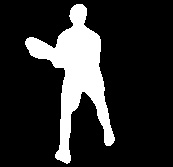
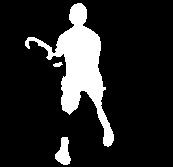
change strategy of rembg

diff --git a/processor/ImageProcessor.py b/processor/ImageProcessor.py
@@ -1,10 +1,9 @@
-from rembg import remove, new_session
 from skimage.restoration import estimate_sigma
 import cv2
-import PIL
 import numpy as np
 from ..video.Video import Video
 import os
+
 
 def estimate_noise(img):
     """
@@ -25,27 +24,47 @@ class ImageProcessor:
     def __init__(self):
         pass
 
-    def remove_background(self, input_img, threshold = 0.3, mode_img = "RGB"):
+    def remove_background(self, input_img):
         """
         Parameters
         ----------
         input_img : np.ndarray 3-dim
             Input image
-        threshold : float, optional
-            Threshold to determine which model to use, by default 0.3
 
         Returns
         -------
         np.ndarray 3-dim
             Image with background removed
         """
-        model_name = "u2net_human_seg" if (estimate_noise(input_img) < threshold) else "u2netp"
-        session = new_session(model_name=model_name)
-        output = remove(input_img, session=session, post_process_mask=True)
-        img_output = PIL.Image.fromarray(output)
-        img_output = img_output.convert(mode_img)
-        return np.array(img_output)
-    
+        # Blur to image to reduce noise
+        input_img = cv2.GaussianBlur(input_img, (5, 5), 0)
+
+        # We bin the pixels. Result will be a value 1..5
+        bins = np.array([0, 51, 102, 153, 204, 255])
+        input_img[:, :, :] = np.digitize(input_img[:, :, :], bins, right=True) * 51
+
+        # Create single channel greyscale for thresholding
+        input_img_grey = cv2.cvtColor(input_img, cv2.COLOR_BGR2GRAY)
+
+        # Perform Otsu thresholding and extract the background.
+        # We use Binary Threshold as we want to create an all white background
+        ret, background = cv2.threshold(input_img_grey, 0, 255, cv2.THRESH_BINARY + cv2.THRESH_OTSU)
+
+        # Convert black and white back into 3 channel greyscale
+        background = cv2.cvtColor(background, cv2.COLOR_GRAY2BGR)
+
+        # Perform Otsu thresholding and extract the foreground.
+        # We use TOZERO_INV as we want to keep some details of the foregorund
+        ret, foreground = cv2.threshold(input_img_grey, 0, 255,
+                                        cv2.THRESH_TOZERO_INV + cv2.THRESH_OTSU)  # Currently foreground is only a mask
+        foreground = cv2.bitwise_and(input_img, input_img,
+                                     mask=foreground)  # Update foreground with bitwise_and to extract real foreground
+
+        # Combine the background and foreground to obtain our final image
+        finalimage = background + foreground
+
+        return finalimage
+
     def crop_image(self, img, start_x: int, end_x: int, start_y: int, end_y: int):
         """
         Parameters
@@ -60,14 +79,14 @@ class ImageProcessor:
             Starting y coordinate
         end_y : int
             Ending y coordinate
-        
+
         Returns
         -------
         Image : np.ndarray 3-dim
             Cropped image
         """
         return img[start_y:end_y, start_x:end_x]
-    
+
     def save_img(self, img, path: str):
         """
         Parameters
@@ -79,15 +98,14 @@ class ImageProcessor:
         """
         cv2.imwrite(path, img)
         return
-    
+
     def crop_shadow_player_save(self, video: Video, nb_start: int, nb_end: int,
                                 start_x: int, end_x: int,
                                 start_y: int, end_y: int,
-                                folder_path: str, threshold: float = 1.1,
-                                mode_img: str = "RGB"):
+                                folder_path: str):
         """
         Crop the shadow player from the video and save the cropped images to a folder
-        
+
         Parameters
         ----------
         video: Video
@@ -114,54 +132,10 @@ class ImageProcessor:
         list_frames = video.frames[nb_start:nb_end]
         for i in range(nb_start, nb_end):
             crop_img = self.crop_image(list_frames[i], start_x, end_x, start_y, end_y)
-            gray_img = cv2.cvtColor(crop_img, cv2.COLOR_BGR2GRAY)
-            no_bg_img = self.remove_background(gray_img, threshold, mode_img)
-            _, thresh = cv2.threshold(no_bg_img, 0, 255, cv2.THRESH_BINARY)
+            no_bg_img = self.remove_background(crop_img)
+            gray_img = cv2.cvtColor(no_bg_img, cv2.COLOR_BGR2GRAY)
+            inverted_img = cv2.bitwise_not(gray_img)
+            _, thresh = cv2.threshold(inverted_img, 0, 255, cv2.THRESH_BINARY)
             saved_path = os.path.join(folder_path, 'frame_{}.jpg'.format(i))
             cv2.imwrite(saved_path, thresh)
         return
-    
-'''
-def remove_background_old(image):
-    # Thresholding the image
-    lower = np.array([200, 200, 200])
-    upper = np.array([255, 255, 255])
-    thresh = cv.inRange(image, lower, upper)
-
-    # Apply morphology
-    kernel = cv.getStructuringElement(cv.MORPH_ELLIPSE, (20, 20))
-    morph = cv.morphologyEx(thresh, cv.MORPH_CLOSE, kernel)
-
-    # Invert the image
-    mask = 255 - morph
-    result = cv.bitwise_and(image, image, mask=mask)
-
-    # Save the results
-    cv.imwrite("..\\TestRemoveBackground\\thresh.png", thresh)
-    cv.imwrite("..\\TestRemoveBackground\\morph.png", morph)
-    cv.imwrite("..\\TestRemoveBackground\\mask.png", mask)
-    cv.imwrite("..\\TestRemoveBackground\\result.png", result)
-
-    # Show the results
-    cv.imshow('thresh', thresh)
-    cv.imshow('morph', morph)
-    cv.imshow('mask', mask)
-    cv.imshow('result', result)
-    cv.waitKey(0)
-    cv.destroyAllWindows()
-
-    return result
-
-
-# Remove background adaptively
-def remove_background_adaptive_old(image):
-    gray = cv.cvtColor(image, cv.COLOR_BGR2GRAY)
-    thresh1 = cv.adaptiveThreshold(gray, 255, cv.ADAPTIVE_THRESH_MEAN_C, cv.THRESH_BINARY, 51, 25)
-    cv.imwrite("..\\TestRemoveBackground\\thresh1.png", thresh1)
-    kernel = cv.getStructuringElement(cv.MORPH_ELLIPSE, (11, 11))
-    morph = cv.morphologyEx(thresh1, cv.MORPH_DILATE, kernel)
-    division = cv.divide(gray, morph, scale=255)
-    thresh2 = cv.threshold(division, 0, 255, cv.THRESH_OTSU)[1]
-    cv.imwrite("..\\TestRemoveBackground\\thresh2.png", thresh2)
-    return thresh2
-'''

diff --git a/setup.py b/setup.py
@@ -14,7 +14,7 @@ setup(name='smart',
     packages=['smart.video', 'smart.processor'],
     package_dir={'smart.video': './video',
                  'smart.processor': './processor'},
-    install_requires=['tensorflow', 'numpy', 'scipy',
-                      'matplotlib', 'opencv-python', 'rembg',
+    install_requires=['numpy', 'scipy',
+                      'matplotlib', 'opencv-python',
                       'ffmpeg-python']
     )
